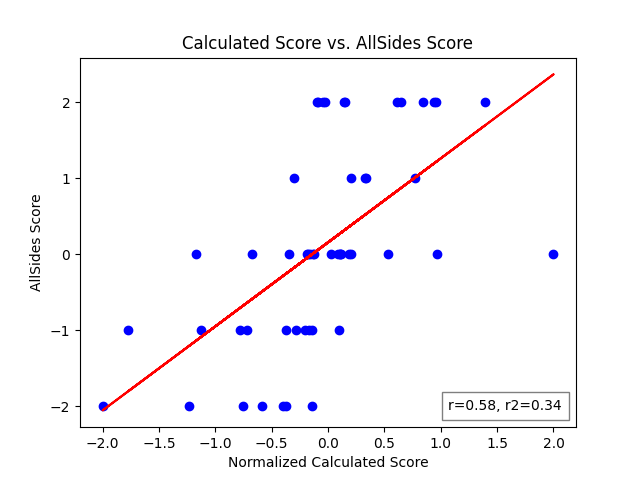
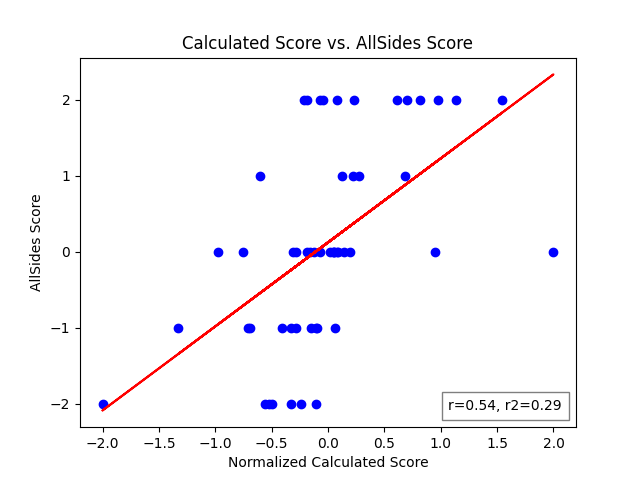
Adjusted graph. Added new graph.

diff --git a/score_websites.py b/score_websites.py
@@ -11,6 +11,7 @@ import matplotlib.pyplot as plt
 from matplotlib.offsetbox import AnchoredText
 from sklearn.linear_model import LinearRegression
 from sklearn.metrics import r2_score
+import difflib
 
 def main():
     create_level_vector_files()
@@ -32,11 +33,15 @@ def create_level_vector_files():
 
         site_scores = Counter()
         all_sides_scores = {}
+        num_articles_per_source = Counter()
         level_weight = 1
         predictions = parallel_classifier(articles)
         for article, prediction in zip(articles, predictions):
             site_scores[article['source']] += (1/(article['level']+1))*prediction
+            num_articles_per_source[article['source']] += 1
             all_sides_scores[article['source']] = article['rating']
+        for key in num_articles_per_source.keys():
+            site_scores[key] /= num_articles_per_source[key]
         json.dump(dict(site_scores), open('site_scores.txt', 'w'), indent=4)
         json.dump(dict(all_sides_scores), open('all_sides_scores.txt', 'w'), indent=4)
     else:
@@ -52,11 +57,14 @@ def create_level_vector_files():
     
     r2 = r2_score(y_all_sides, y_pred)
 
-    fig, ax = plt.subplots()
+    site_rankings = [key for key,_ in sorted(site_scores.items(), key=lambda x: x[1])]
+    all_sides_rankings = [key for key,_ in sorted(zip(site_rankings, [all_sides_scores[site] for site in site_rankings]), key=lambda x: x[1])]
+    
+    print(site_rankings)
+    print(all_sides_rankings)
 
-    #text_box = AnchoredText(box_text, frameon=True, loc=4, pad=0.5)
-    #plt.setp(text_box.patch, facecolor='white', alpha=0.5)
-    #ax.add_artist(text_box)
+    print(f'Similarity of rankings={difflib.SequenceMatcher(None, site_rankings, all_sides_rankings).ratio()}')
+    fig, ax = plt.subplots()
 
     plt.title('Calculated Score vs. AllSides Score')
     plt.ylabel('AllSides Score')
